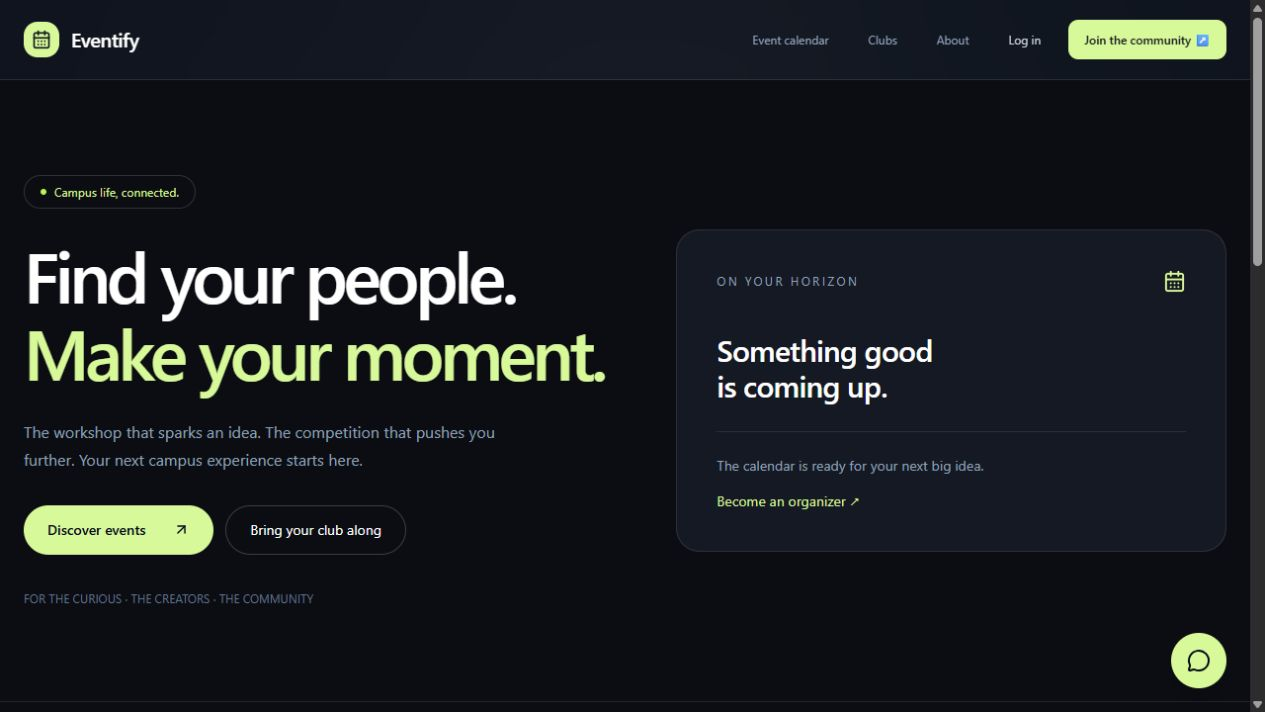
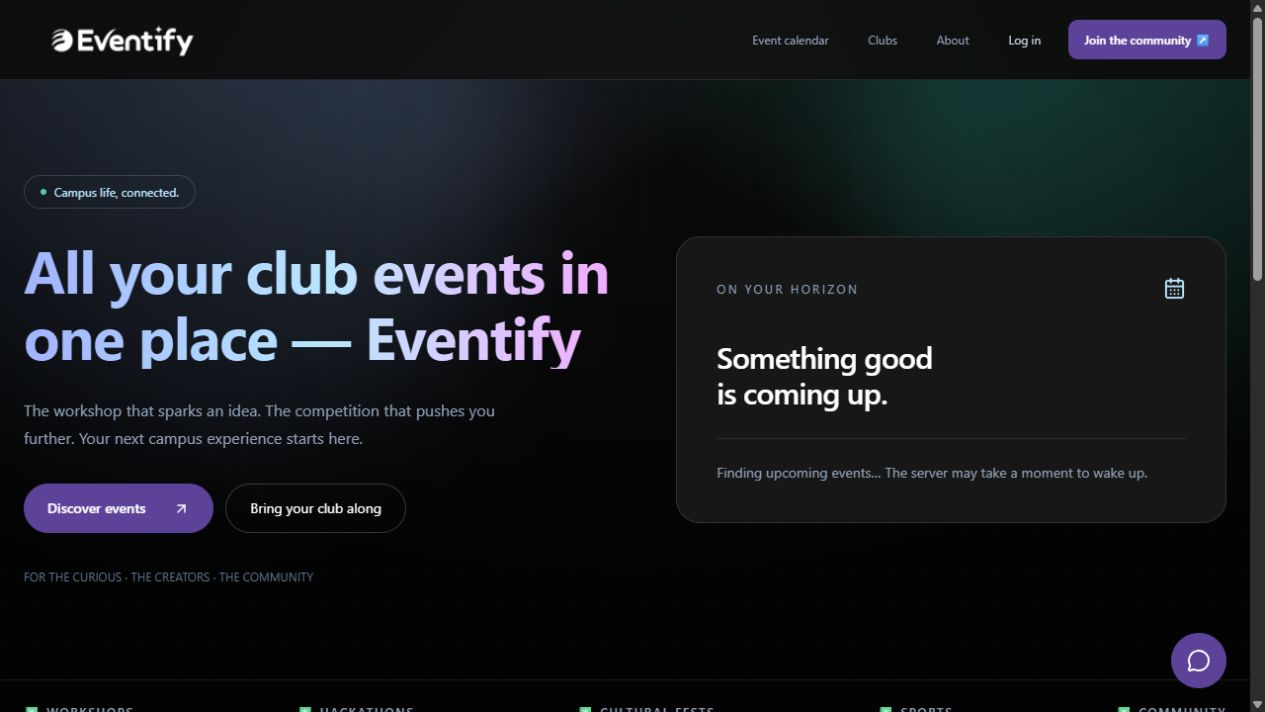
Pin production builds and document the preserved Eventify theme

diff --git a/README.md b/README.md
@@ -16,6 +16,8 @@ A university event platform for discovery, organizer approval, registrations and
 
 Originally built by **Team If_It_Works_It_Works** for **AUST CSE Carnival 6.0 Hackathon**. The application now uses real account/event data throughout its calendar, dashboards and approved-club directory. An empty calendar means no upcoming events have been published; sample cards are not presented as real events. Free hosting may take a moment to wake after inactivity.
 
+The interface preserves the original dark theme, purple/blue/teal gradients, white logo and animated background. Responsive layouts, accessibility and functional repairs build on that visual identity.
+
 ## Explore the application
 
 | Role        | Working flows                                                                                                                                       |
